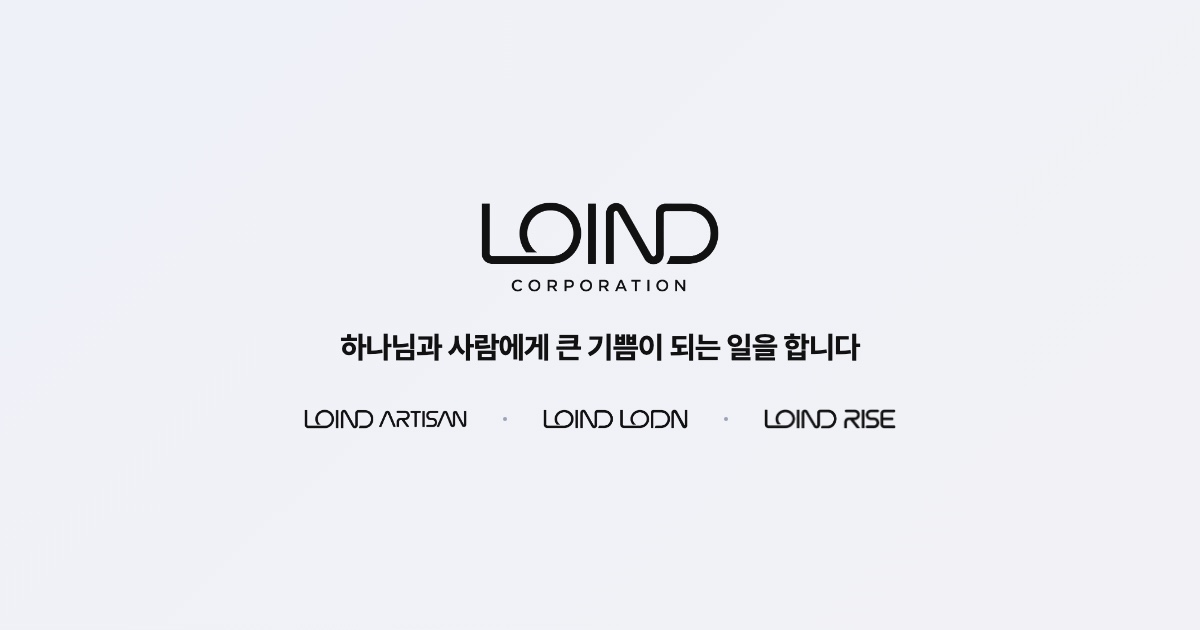
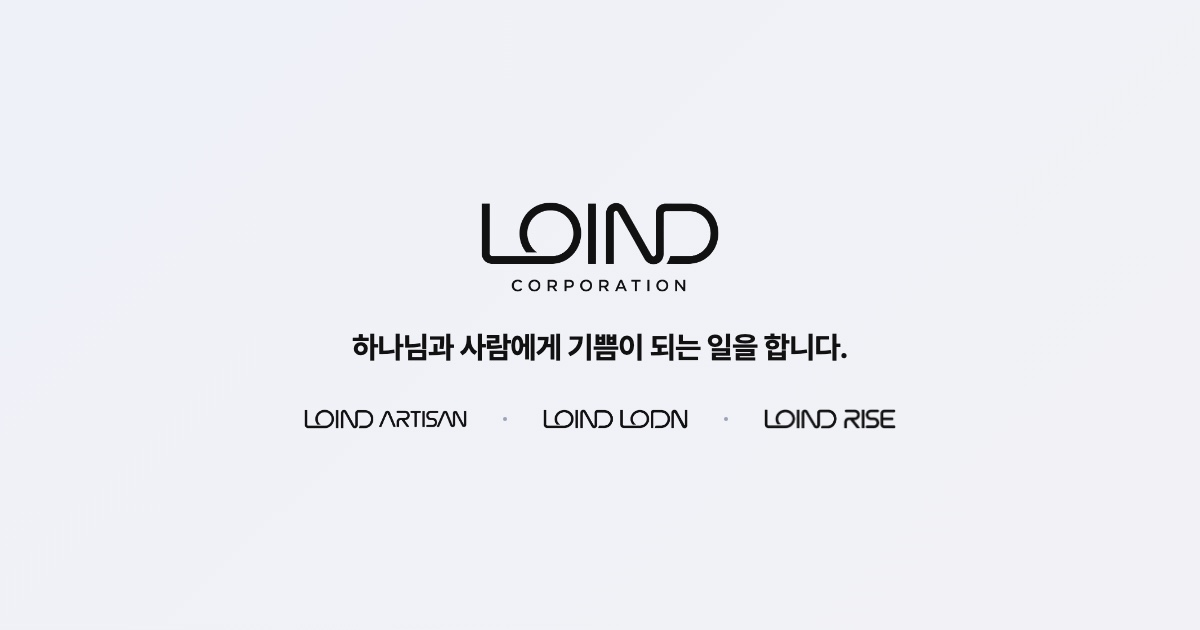
메인 타이틀을 '하나님과 사람에게 기쁨이 되는 일을 합니다.'로 수정 (공유 제목·미리보기 이미지)

Changed region(s): [[0.2775, 0.5127, 0.74, 0.573]]

diff --git a/index.html b/index.html
@@ -8,7 +8,7 @@
       rel="stylesheet"
       href="https://cdn.jsdelivr.net/gh/orioncactus/pretendard@v1.3.9/dist/web/static/pretendard.css"
     />
-    <title>LOIND | 하나님과 사람에게 큰 기쁨이 되는 일을 합니다</title>
+    <title>LOIND | 하나님과 사람에게 기쁨이 되는 일을 합니다.</title>
     <meta
       name="description"
       content="Love Bind, LOIND. 로인드는 하나님 사랑, 이웃 사랑으로 묶인 공동체입니다. 제작 스튜디오 아티즌(ARTISAN), 브랜드 콘텐츠 로든(LODN), 크리스천 비즈니스 라이즈(RISE)를 운영합니다."
@@ -18,14 +18,14 @@
     <meta property="og:site_name" content="LOIND" />
     <meta
       property="og:title"
-      content="LOIND | 하나님과 사람에게 큰 기쁨이 되는 일을 합니다"
+      content="LOIND | 하나님과 사람에게 기쁨이 되는 일을 합니다."
     />
     <meta
       property="og:description"
       content="제작 스튜디오 아티즌 · 브랜드 콘텐츠 로든 · 크리스천 비즈니스 라이즈"
     />
     <meta property="og:url" content="https://loind.com/" />
-    <meta property="og:image" content="https://loind.com/og-image.jpg" />
+    <meta property="og:image" content="https://loind.com/og-image.jpg?v=2" />
     <meta property="og:image:width" content="1200" />
     <meta property="og:image:height" content="630" />
     <meta property="og:locale" content="ko_KR" />
